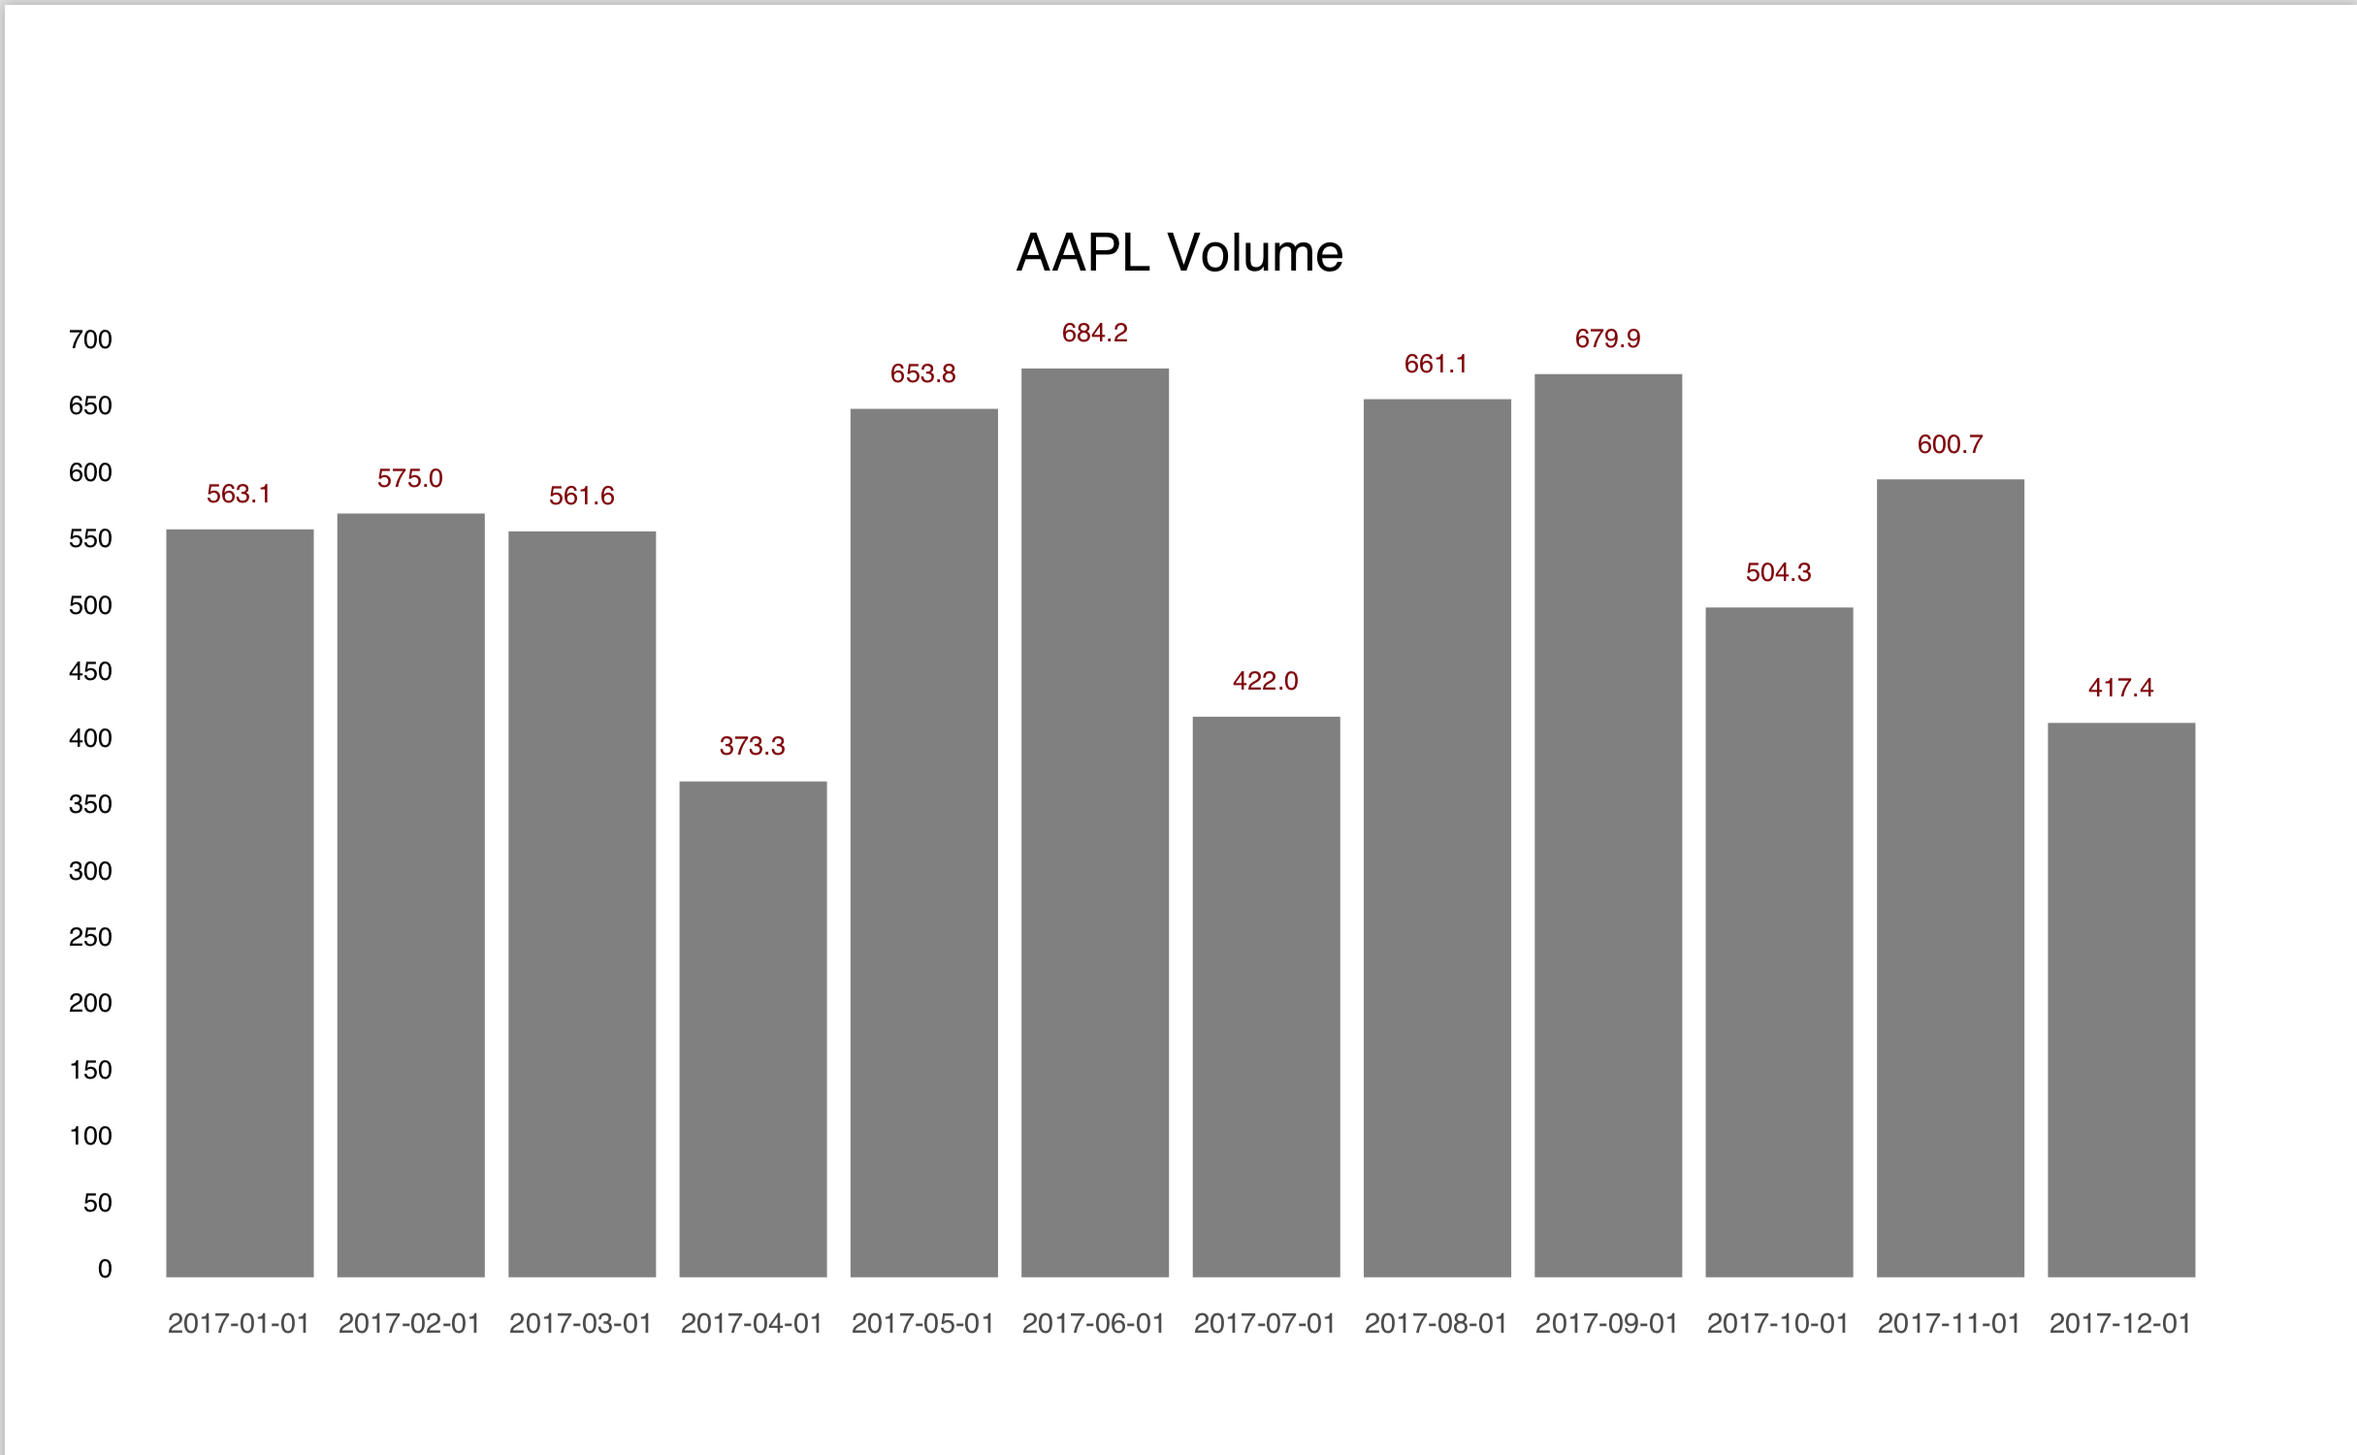
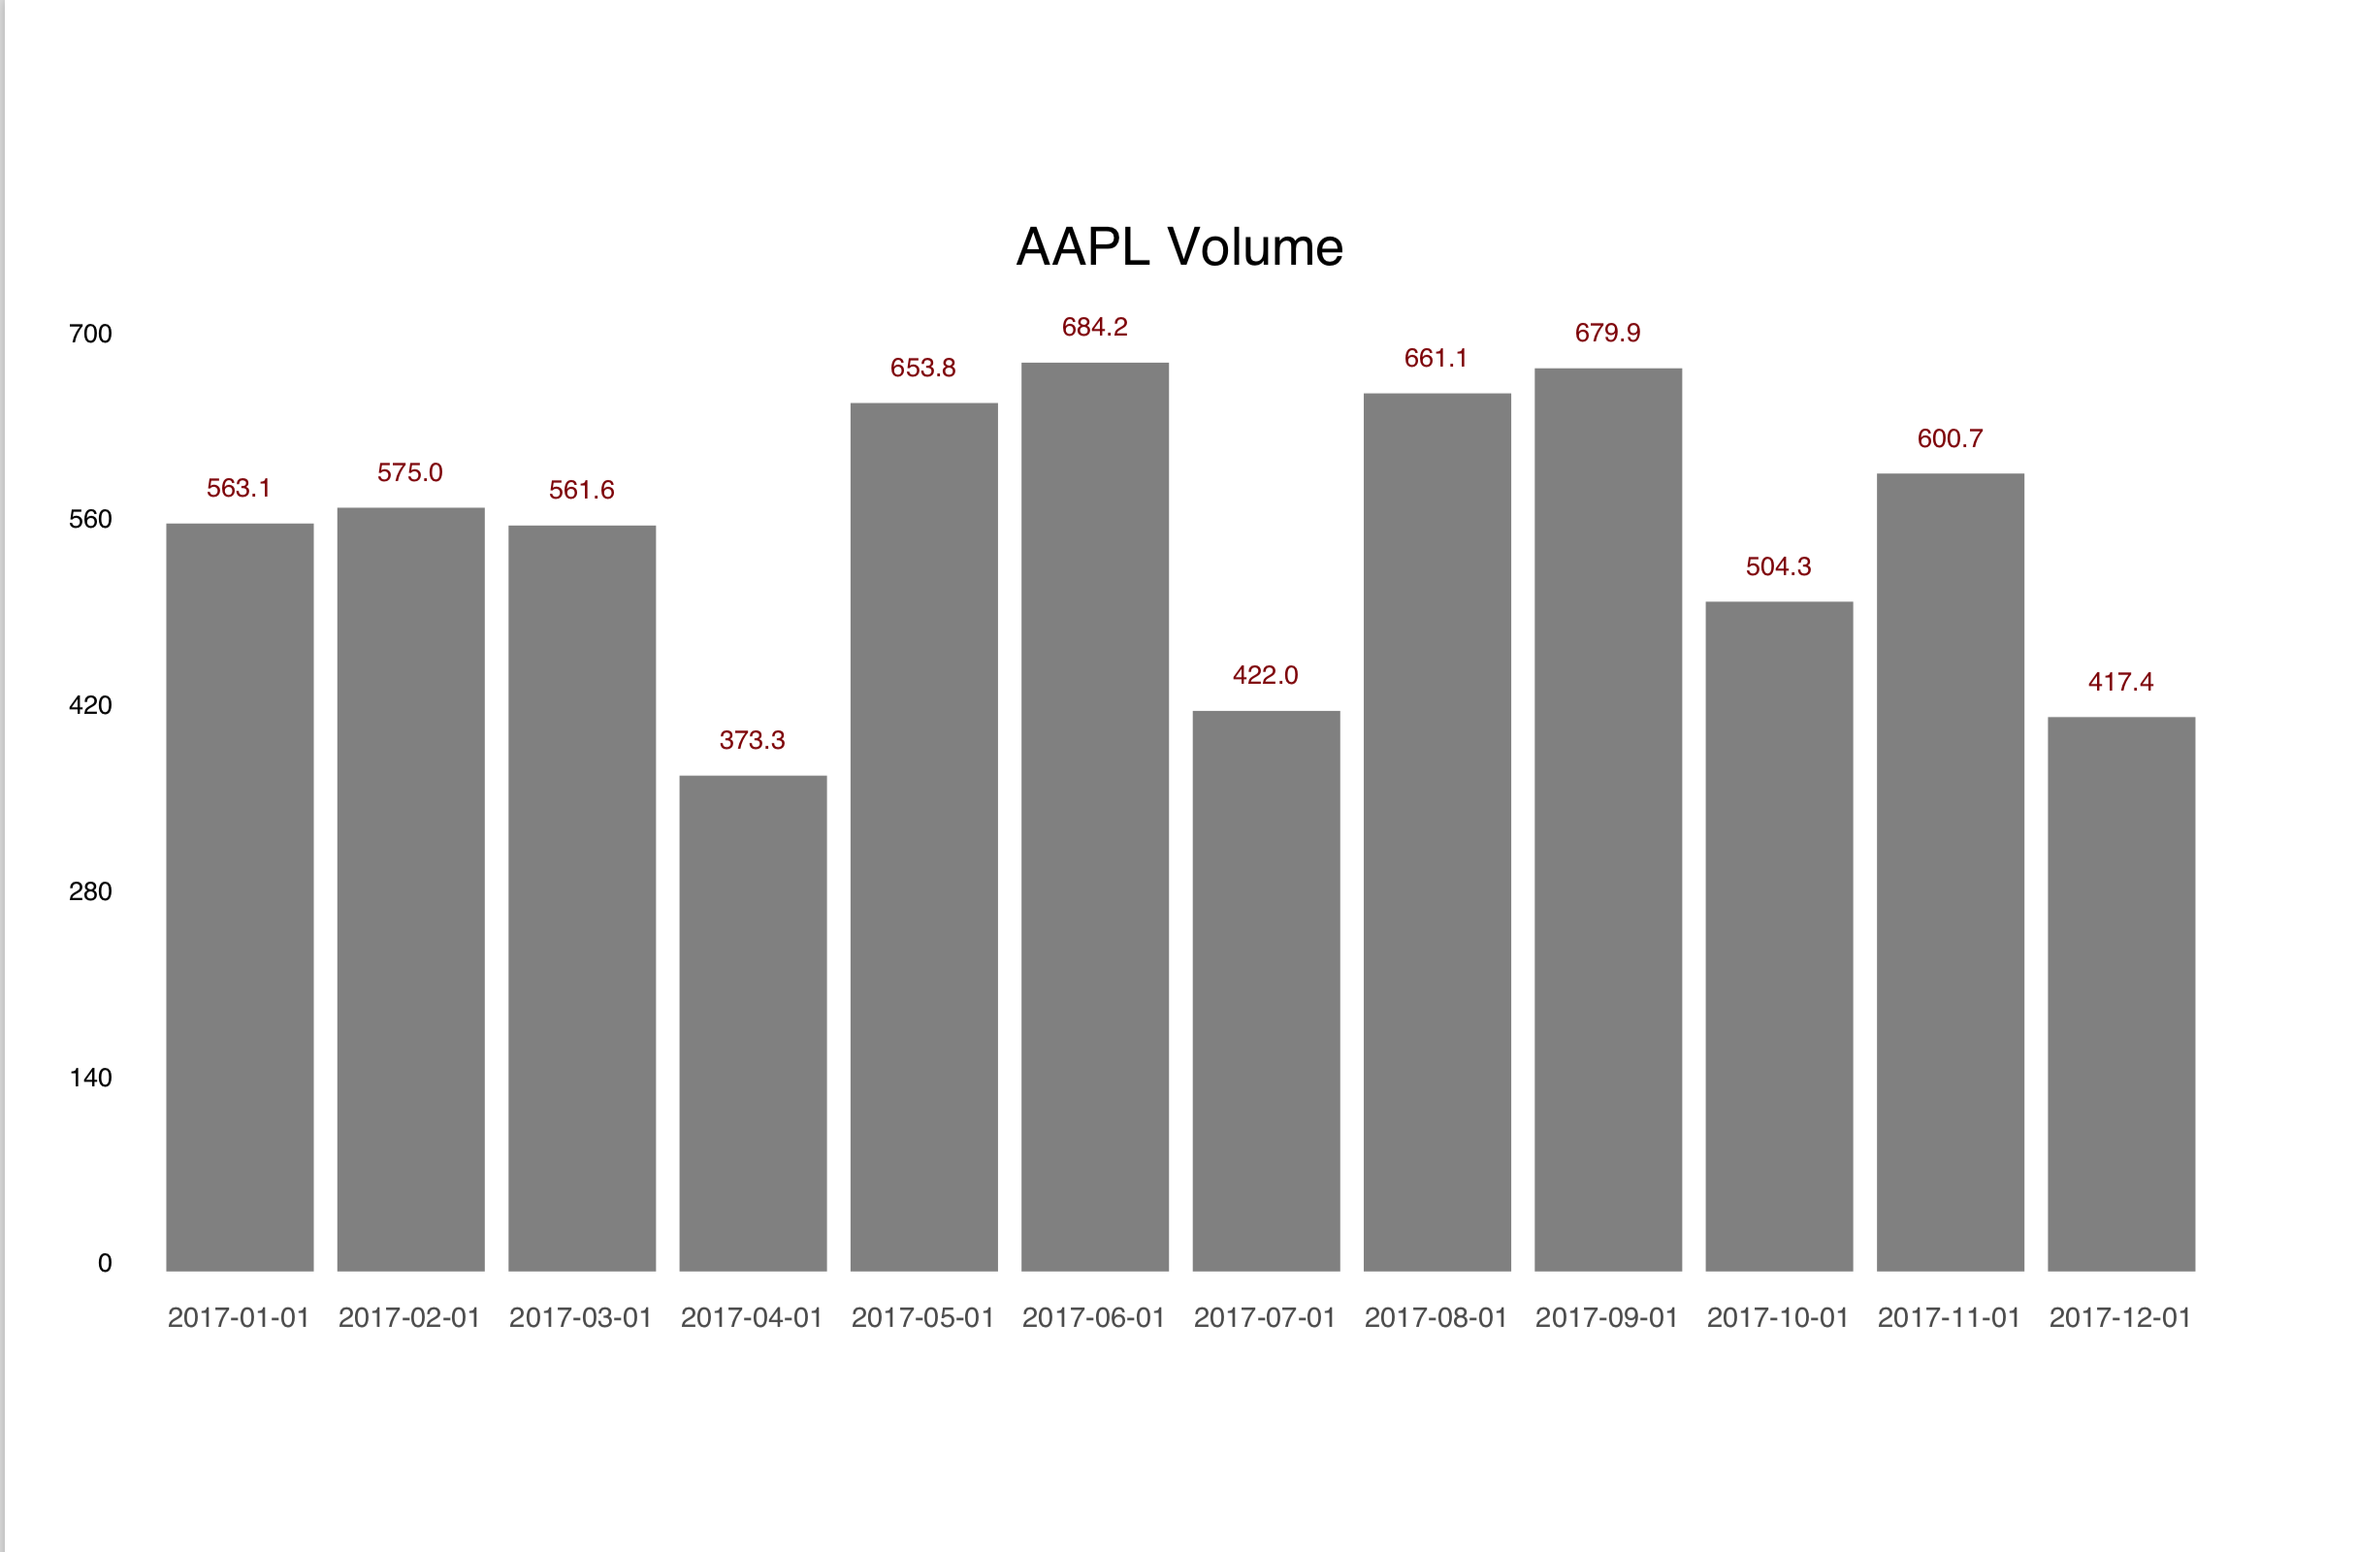
lchart: README update, new images, sections

diff --git a/cmd/lchart/doc.go b/cmd/lchart/doc.go
@@ -29,7 +29,7 @@ The command line options are:
 	-val         show values (default true)
 	-valpos      value position (t=top, b=bottom, m=middle) (default "t")
 	-vol         show volume plot (default false)
-	-yaxis       show a y axis (default false)
+	-yaxis       show a y axis (default true)
 	-yrange      define the y axis range (min,max,step)
 	-standalone  generate full markup (default true)
 	-title       show title (default true)

diff --git a/cmd/lchart/README.md b/cmd/lchart/README.md
@@ -1,6 +1,7 @@
 # lchart - charts for deck
 
-```lchart``` generates deck markup for  bar, line, dot, and volume charts, reading data from the standard input or specified files. Unless specified otherwise, each input source generates a slide in the deck.
+```lchart``` generates deck markup for  bar, line, dot, and volume charts, reading data from the standard input or specified files. 
+Unless specified otherwise, each input source generates a slide in the deck.
 
 The input data format a tab-separated list of ```label,data``` pairs where label is an arbitrary string, 
 and data is intepreted as a floating point value. A line beginning with "#" is parsed as a title, 
@@ -20,20 +21,27 @@ Typically ```lchart``` generates input for deck clients like ```pdfdeck```, or `
 deck markup on the standard input and produces PDF on the standard output).
 
     $ lchart foo.d bar.d baz.d > fbb.xml && pdfdeck fbb.xml && open fbb.pdf
-	$ lchart -min=0 -max=700 -datafmt %0.2f -connect -bar=f -vol -dot [A-Z]*.d | pdi > allvol.pdf
-    $ ls -lS | awk 'BEGIN {print "# File Size"} NR > 1 {print $NF "\t" $5}' | lchart -layout h | pdi > fs.pdf
+	$ lchart -min=0 -max=700 -datafmt %0.2f -line -bar=f -vol -dot [A-Z]*.d | pdi > allvol.pdf
+    $ ls -lS | awk 'BEGIN {print "# File Size"} NR > 1 {print $NF "\t" $5}' | lchart -hbar | pdi > fs.pdf
+
+## Defaults
 
 With no options, ```lchart``` makes a bar graph with yaxis labels, showing data values and every data label.
+The the y-axis has five labels, with the minimum at 0, and the maximum rounded up to appropriate scale. Values are shown with one decimal point. Integer input is displayed as such.
+
+## Placement
 
 The plot is positioned and scaled on the deck canvas with the 
 ```-top```, ```-bottom```, ```-left```, and ```-right``` flags. 
 These flag values represent percentages on the deck canvas.
 
+## Chart elements
+
 The  ```-bar```, ```-line```, ```-dot```, ```-grid```, ```-title``` ```-val```, ```-vol```, and ```-yaxis``` 
 flags toggle the visibility of plot components.  
 
 
-The command line options are:
+## Command line options
 
 	-dmim        data minimum (default false, min=0)
 	-min         set the minimum value
@@ -47,9 +55,9 @@ The command line options are:
 	-val         show values (default true)
 	-valpos      value position (t=top, b=bottom, m=middle) (default "t")
 	-vol         show volume plot (default false)
-	-yaxis       show a y axis (default false)
+	-yaxis       show a y axis (default true)
 	-yrange      specify the y axis labels (min,max,step)
-	-standalone  generate full markup (default true)
+	-standalone  only generate internal markup (default false)
 	-title       show title (default true)
 	-chartitle   specify the title (overiding title in the data)
 	
@@ -90,9 +98,13 @@ here are some variations.
 
 	$ lchart AAPL.d
 
-![no-args.png](images/no-args.png)
+![no-args](images/no-args.png)
 
-	$ lchart -xlabel=2 -left 30 -right 70 -top 70 -bottom 40 -yaxis=f
+	$ lchart -yrange=0,700,100 AAPL.d
+
+![yrange](images/yrange.png)
+
+	$ lchart -xlabel=2 -left 30 -right 70 -top 70 -bottom 40 -yaxis=f AAPL.d
 
 ![pos](images/pos.png)
 
@@ -116,35 +128,35 @@ here are some variations.
 
 ![vol](images/vol.png)
 
-	$ lchart lchart -datafmt %0.2f -bar=f -dot  -connect  
+	$ lchart lchart -datafmt %0.2f -bar=f -dot -line AAPL.d
 
-![dot-connect](images/dot-connect.png)
+![dot-line](images/dot-connect.png)
 
-	$ lchart -bar=f -connect AAPL.d # line chart
+	$ lchart -bar=f -line AAPL.d # line chart
 
 ![connect](images/connect.png)
 
-	$ lchart -bar=f -connect -yaxis=f -val=f AAPL.d # only show line and x axis
+	$ lchart -bar=f -line -yaxis=f -val=f AAPL.d # only show line and x axis
 
 ![connect-no-axis-no-val](images/connect-no-axis-no-val.png)
 
-	$ lchart -bar=f -connect -vol -dot # combine line, volume, and dot
+	$ lchart -bar=f -line -vol -dot AAPL.d # combine line, volume, and dot
 
 ![vol-dot](images/vol-dot.png)
 
-	$ lchart -bar=f -connect -vol -dot -yaxis=f # as above, removing the y-axis
+	$ lchart -bar=f -line -vol -dot -yaxis=f AAPL.d # as above, removing the y-axis
 
 ![vol-dot-no-axis](images/vol-dot-no-axis.png)
 
-	$ lchart -bar=f -connect -vol -dot -grid 
+	$ lchart -bar=f -line -vol -dot -grid AAPL.d
 
 ![connect-dot-vol-val-grid](images/connect-dot-vol-val-grid.png)
 
-	$ lchart -layout=h AAPL.d
+	$ lchart -hbar AAPL.d
 
 ![hlayout](images/hlayout.png)
 
-	$ sort -k2 -nr pdf.d | lchart -left 20 -layout h -datafmt %0.f
+	$ sort -k2 -nr pdf.d | lchart -left 20 -hbar
 
 ![sorted-bar](images/sorted-hbar.png)
 
